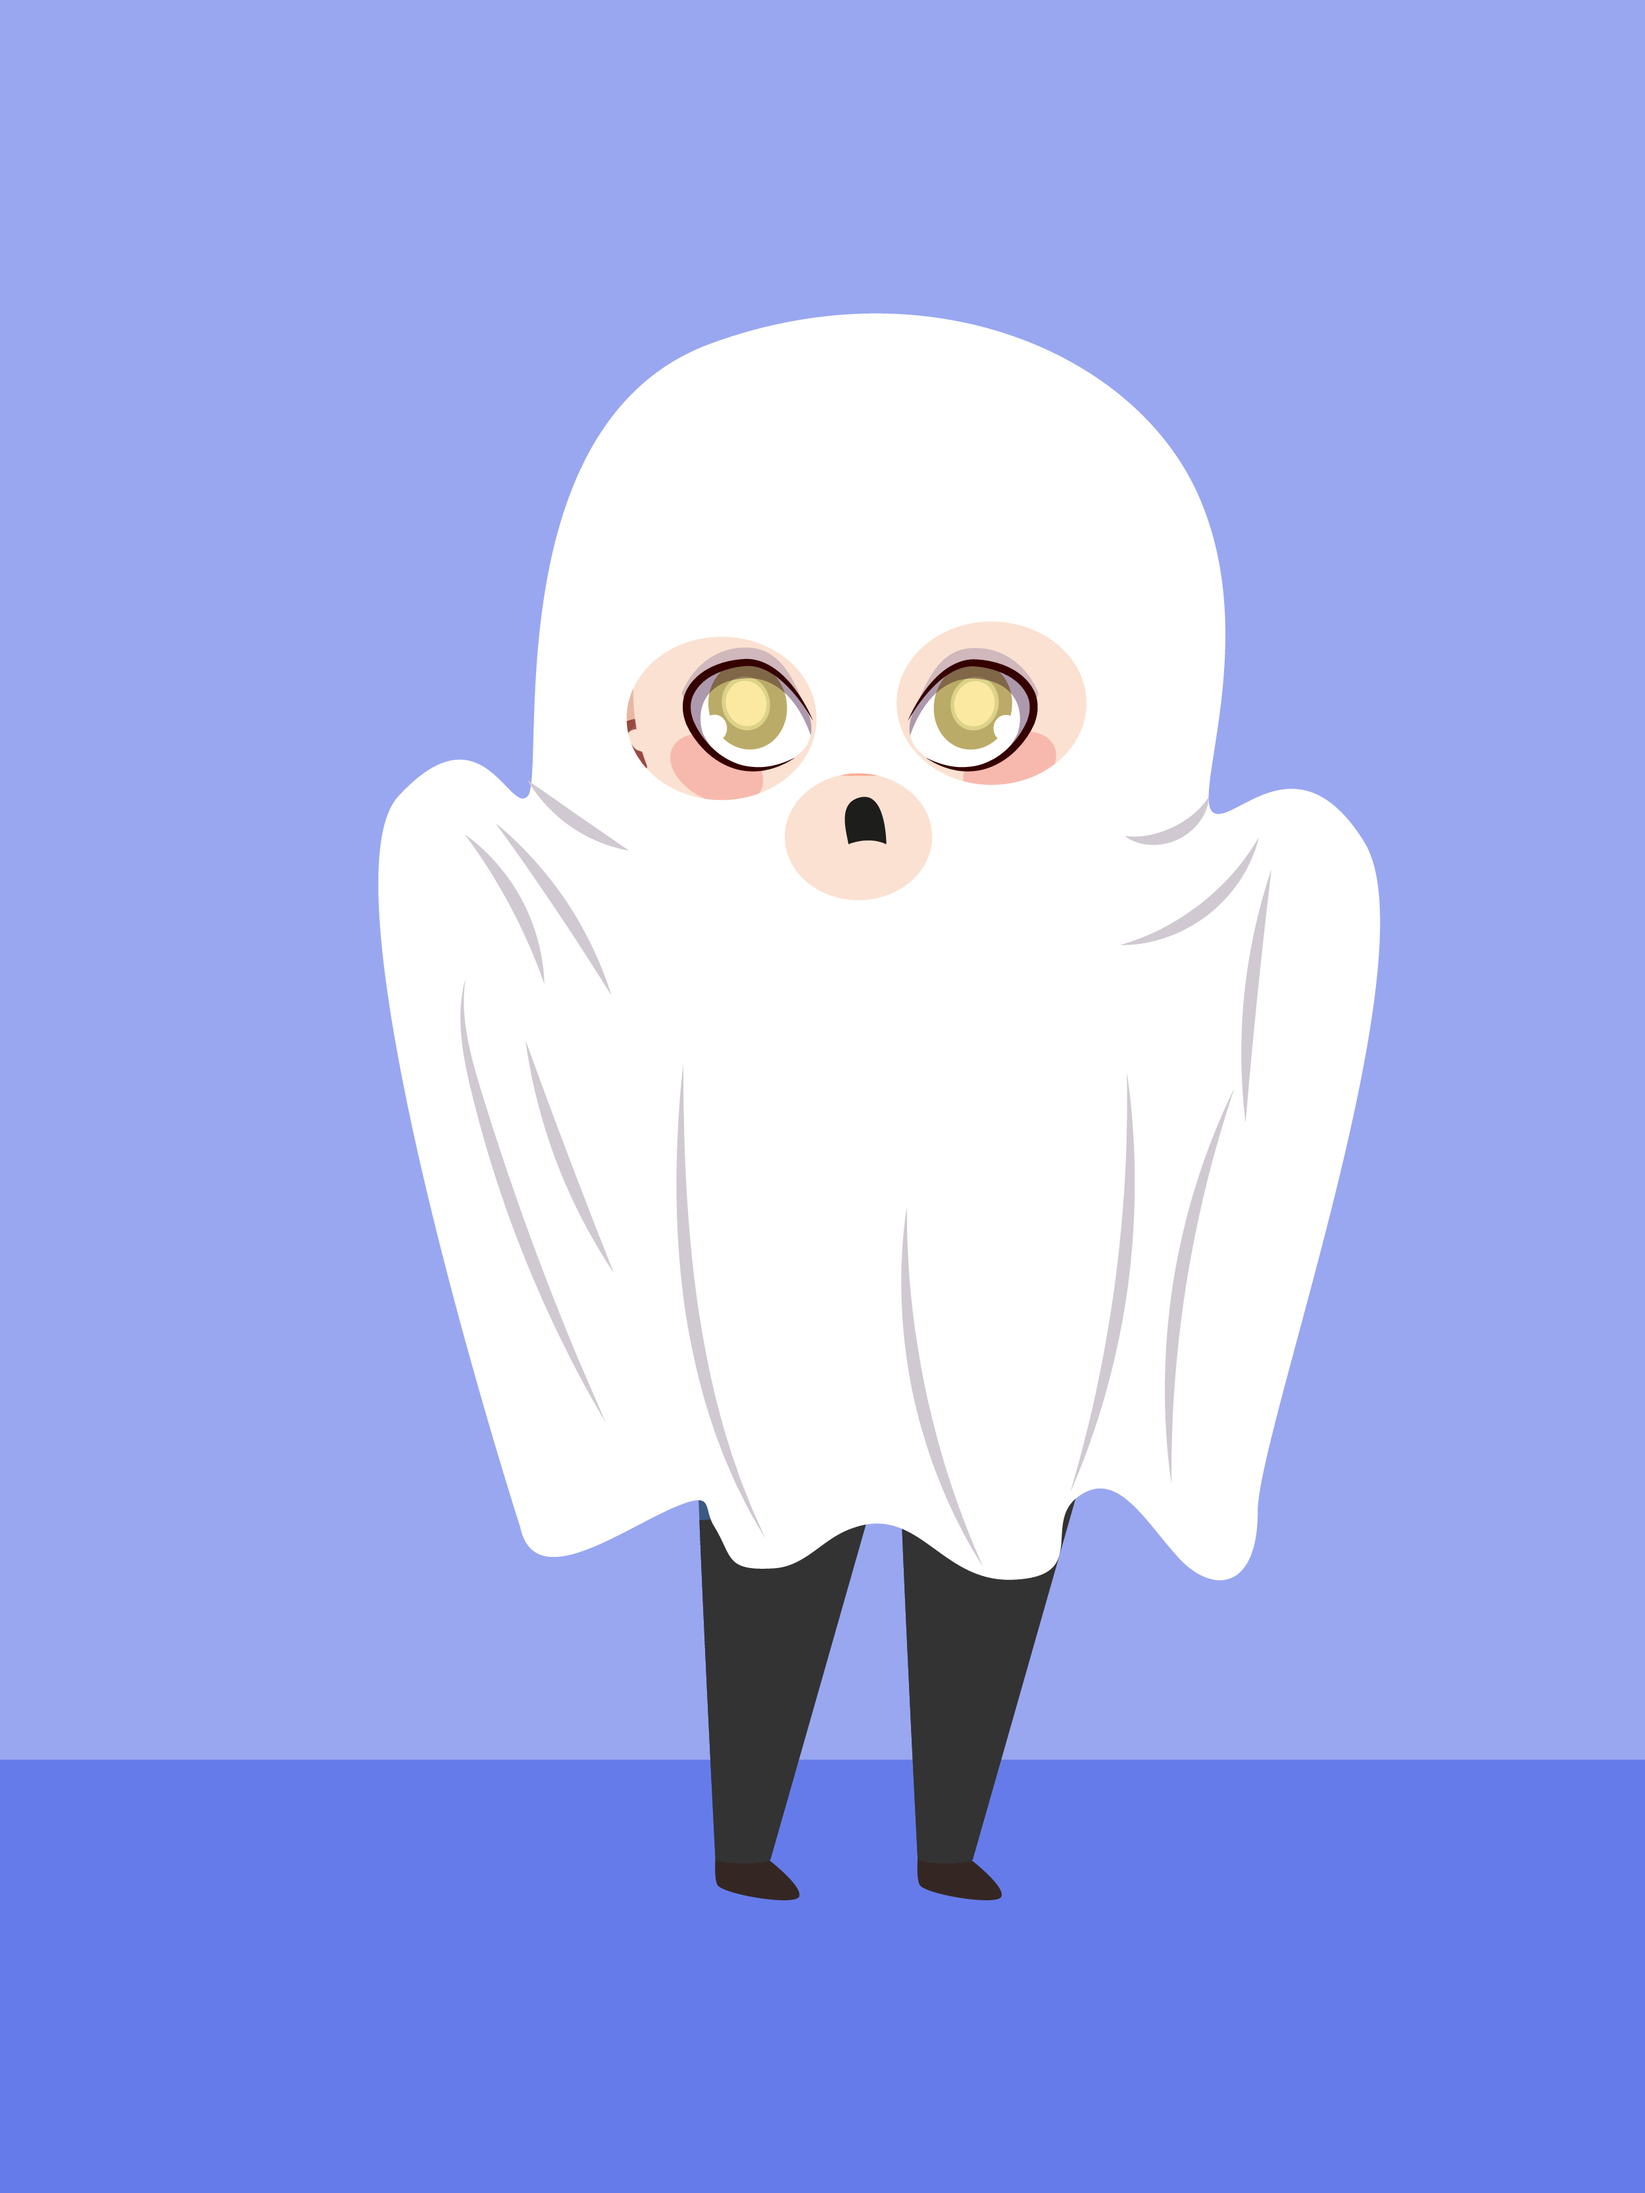
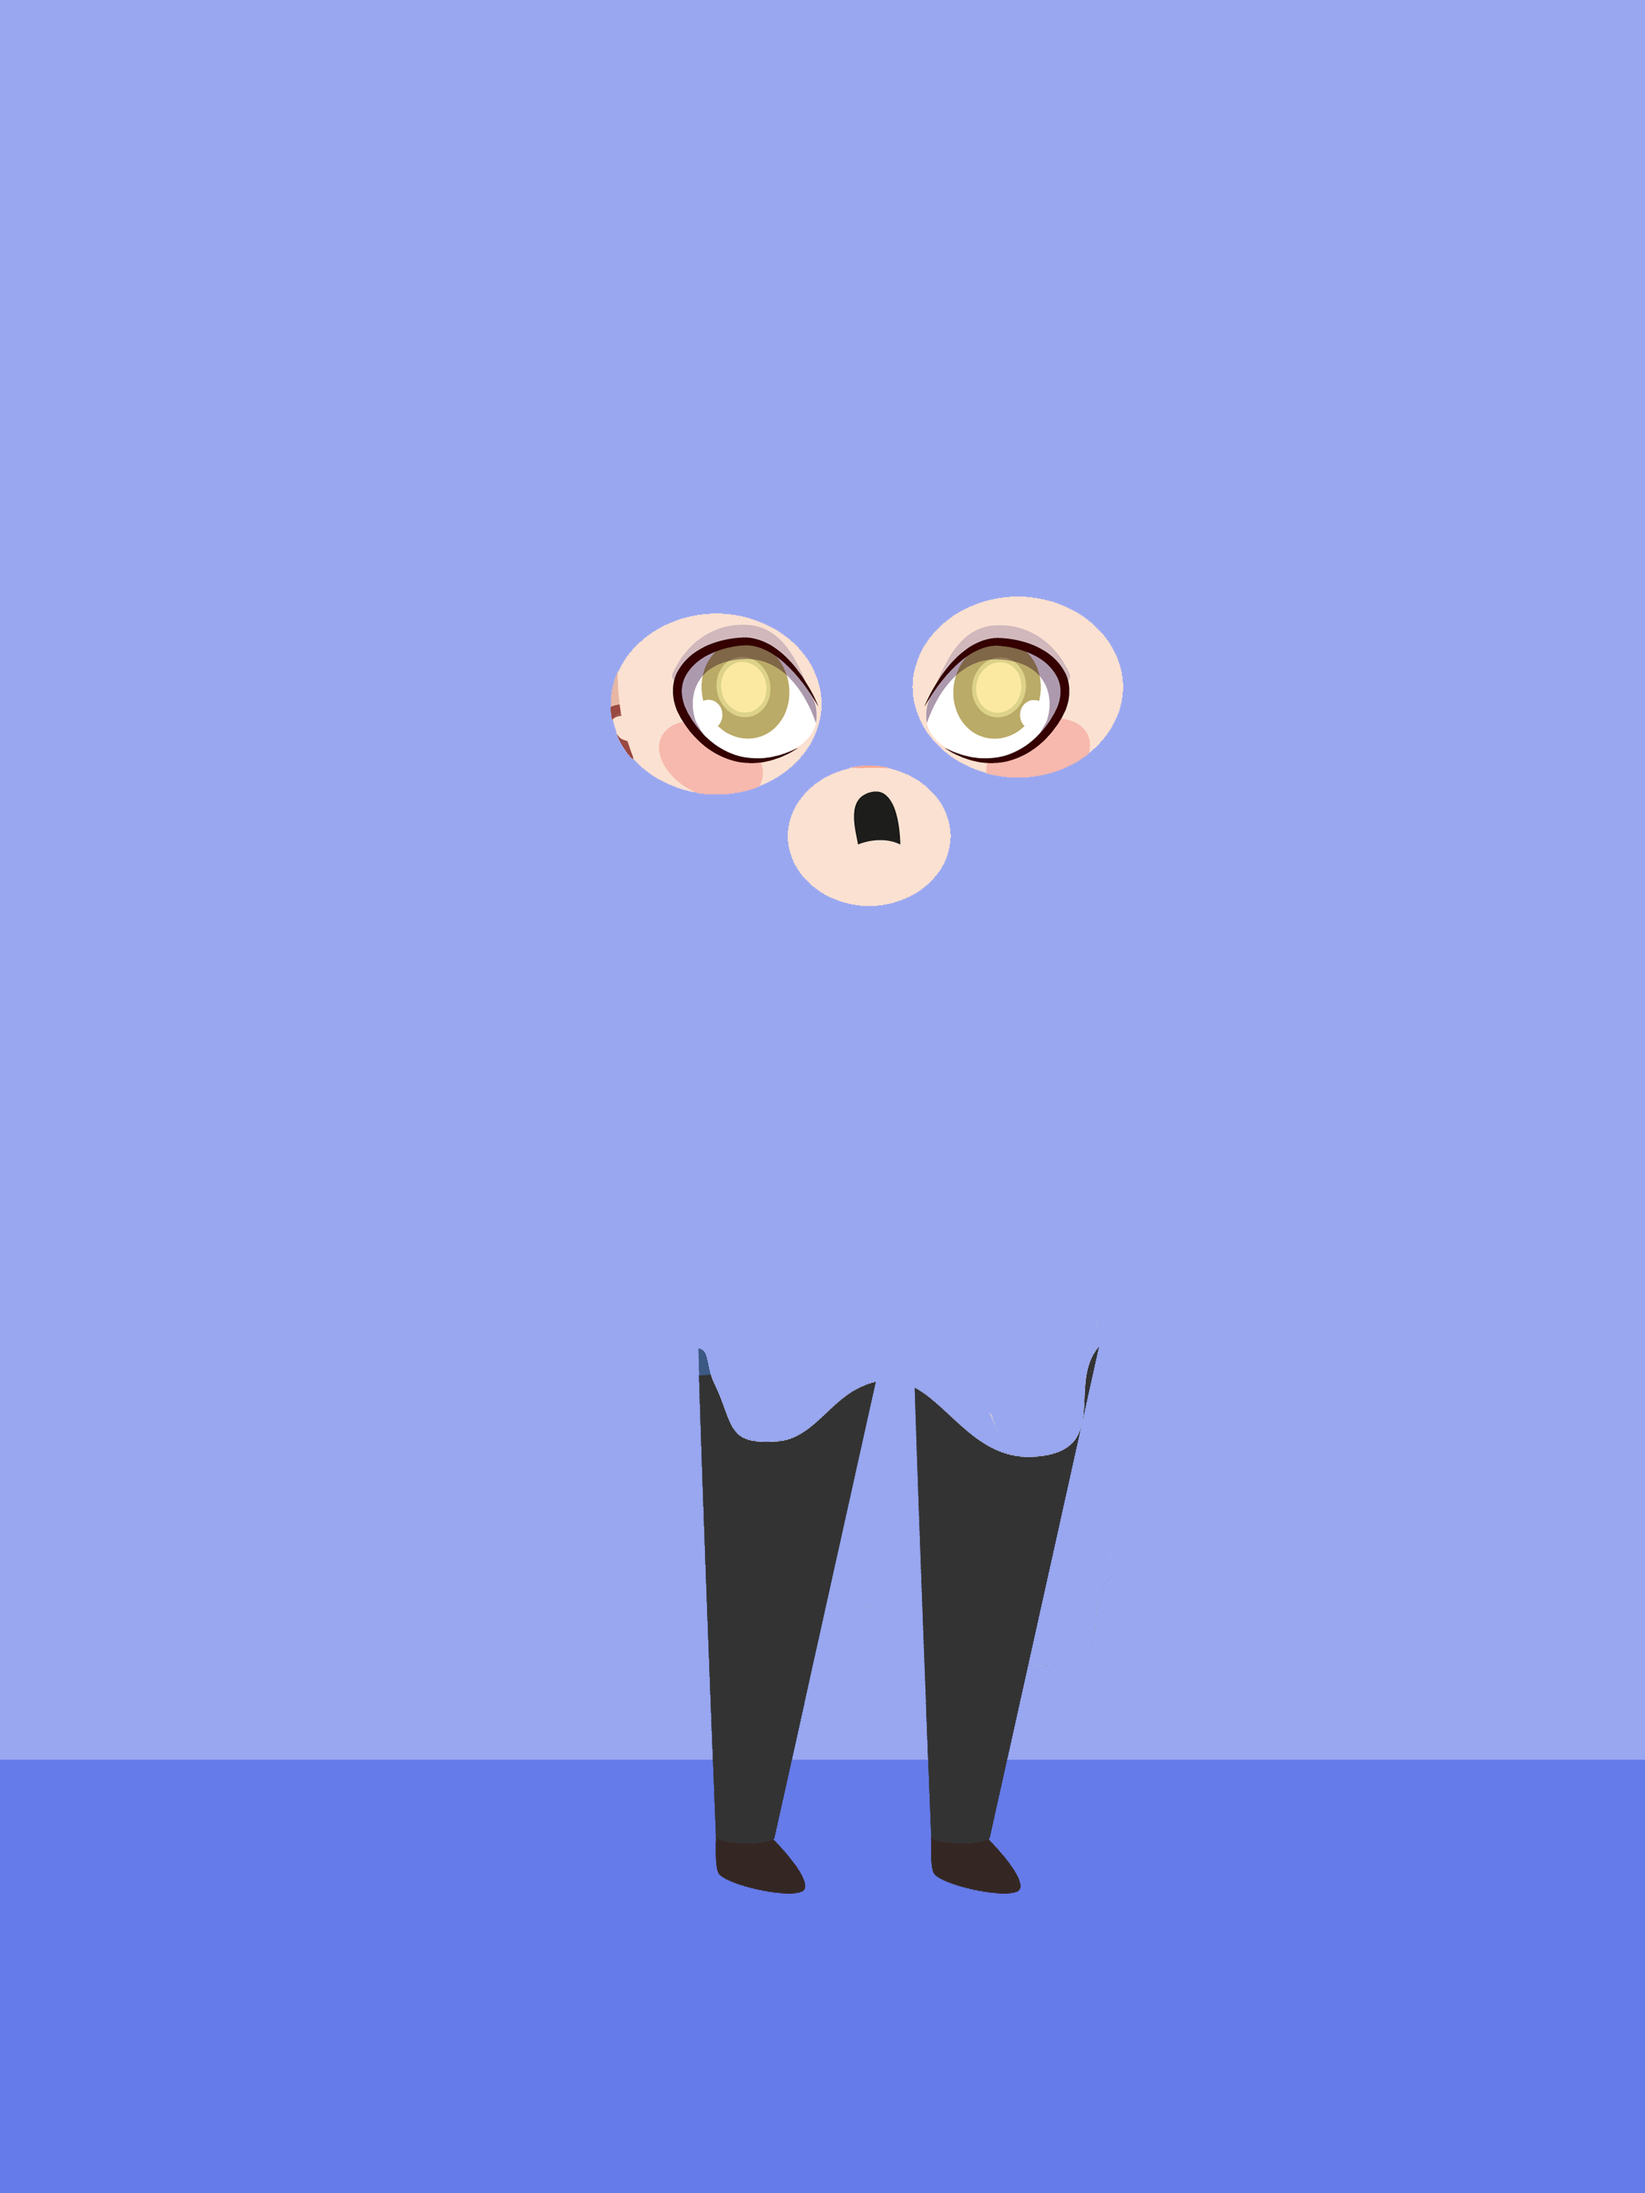
Front layer for id3 with atvImg effect

Changed region(s): [[0.2183, 0.1248, 0.8421, 0.8734], [0.4678, 0.7487, 0.499, 0.811], [0.4366, 0.8422, 0.499, 0.8734]]

diff --git a/src/js/app.js b/src/js/app.js
@@ -12,7 +12,12 @@ App = {
         petTemplate.find('.panel-title').text(data[i].name);
         //petTemplate.find('.atvImg-rendered-layer').attr('style', style='background-image: url("'+data[i].picture+'");');
         //petTemplate.find('.atvImg-container').attr('style', style='height:200px;width:200px;');
-        petTemplate.find('.atvImg-layer').attr('data-img', data[i].picture);
+        petTemplate.find('#atvImgLayer1').attr('data-img', data[i].picture);
+        if (i==3){
+          petTemplate.find('#atvImgLayer2').attr('data-img', data[i].picture.split('.')[0]+'front.png');
+        } else{
+          petTemplate.find('#atvImgLayer2').attr('data-img', 'front.png');
+        }
         petTemplate.find('.pet-breed').text(data[i].breed);
         petTemplate.find('.pet-age').text(data[i].age);
         petTemplate.find('.pet-location').text(data[i].location);
@@ -103,7 +108,7 @@ App = {
         }
       });
       for (i = 0; i < adopters.length; i++) { 
-        var priceNTD = prices[i] / (1000000000000000000) * 9500;
+        var priceNTD = prices[i] / (1000000000000000000) * 7730;
         $('.panel-pet').eq(i).find('.pet-price').text(prices[i] / (1000000000000000000) +' ETH ($'+ priceNTD +' NTD)');     
         if (adopters[i] !== '0x0000000000000000000000000000000000000000') {
           $('.panel-pet').eq(i).find('.pet-owner').text(adopters[i].substring(0,10) + '...');

diff --git a/src/index.html b/src/index.html
@@ -120,7 +120,8 @@
           </div>
           <div class="panel-body">
             <div class="atvImg">
-            <div class="atvImg-layer" data-img="/images/front.png"></div>
+						<div class="atvImg-layer" id="atvImgLayer1" data-img="/images/front.png"></div>
+						<div class="atvImg-layer" id="atvImgLayer2" data-img="/images/front.png"></div>
             </div>
             <br/><br/>
             <strong>姓名</strong>: <span class="pet-breed">-</span><br/><br/>
